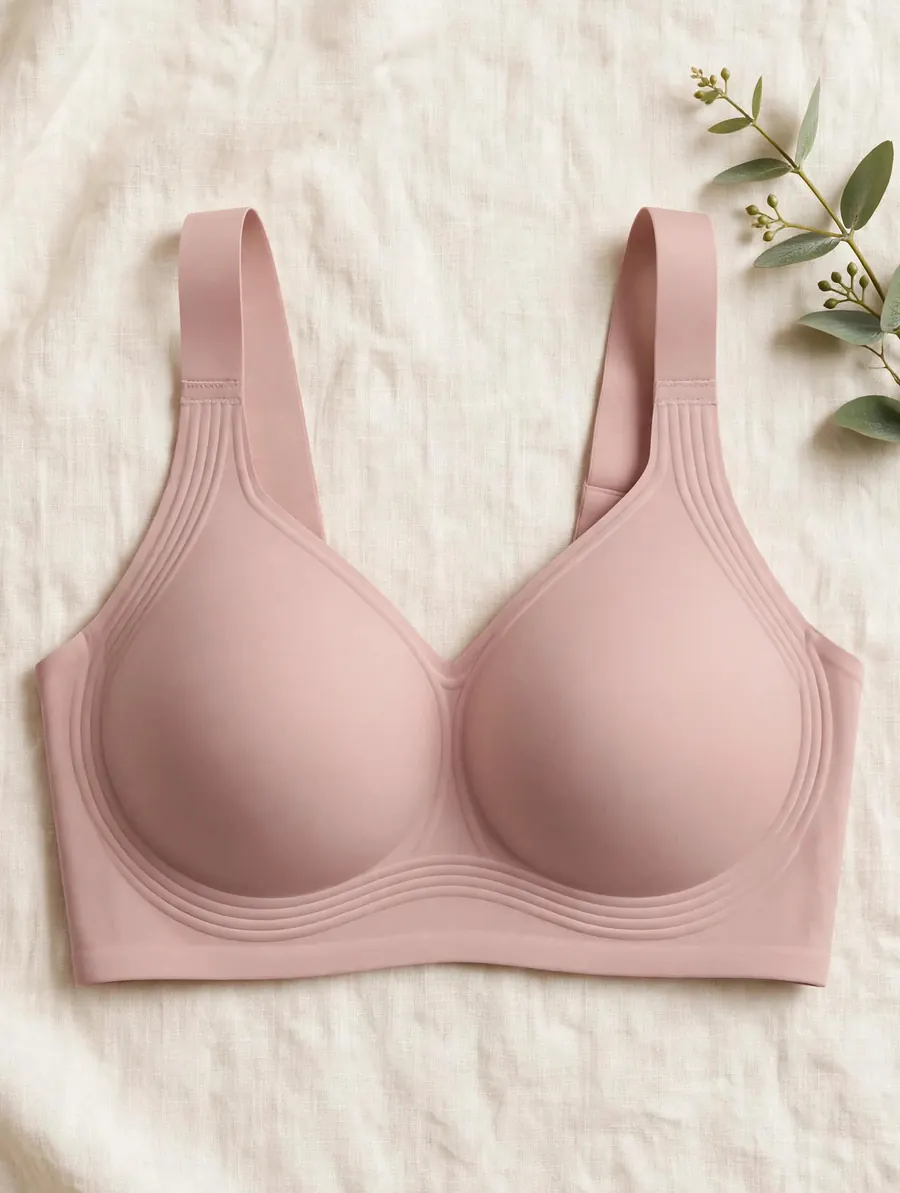
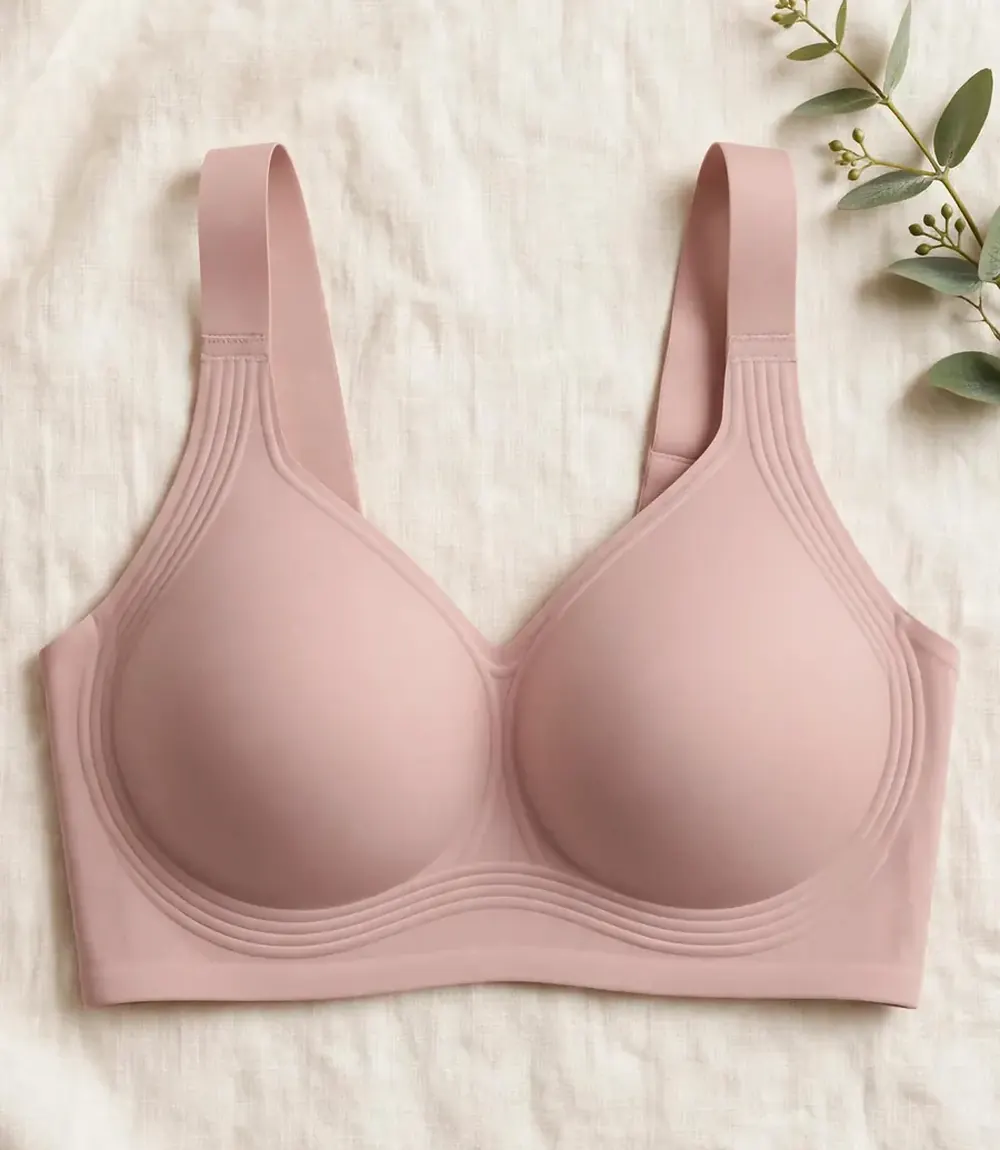
Fix product image fit on new PDPs: full-frame 1/1.15 images, modal fill, correct Save %
- Standardize 7 product images (5 from PR #63 + Tagoo/PISIQI from PR #59) to
  exactly 1000x1150 (the PDP hero / card aspect ratio 1/1.15), WebP q78 <150KB,
  recomposed so the full product is inside the frame (no cover-crop cut-off).
- Tagoo leggings: regenerate hero — the old 736x2912 strip showed only the
  sweater under object-fit:cover. New full-length shot: blonde model, cream
  cable-knit sweater, glossy black faux leather leggings filling the lower
  half, window + beige curtains + potted olive plant. Pin regenerated too.
  Image path switched .jpg -> .webp (data.js + PDP refs updated).
- Bali bra: was 900x1800 (1:2) — cropped on PDP, narrow strip in quick-view.
  Re-cropped on the product bounding box to 1000x1150; full bra now visible.
- Quick-view modal CSS: aspect-ratio 4/5 -> 1/1.15 and zoomable img
  object-fit contain -> cover, so modal images fill the frame with no bars.
- Add missing 600x690 card thumbnails for the 7 products.
- Correct Save badges (were all hard-coded 24%): Bali 56% (21.99 vs 50.00),
  the other six 26% per data.js price/originalPrice.

diff --git a/products/tagoo-faux-leather-leggings-for-women.html b/products/tagoo-faux-leather-leggings-for-women.html
@@ -34,7 +34,7 @@ y=l.getElementsByTagName(r)[0];y.parentNode.insertBefore(t,y);
   <meta property="og:title" content="Tagoo Faux Leather Leggings for Women, Black High | LOOKIQ">
   <meta property="og:description" content="Curated Amazon fashion staple: Tagoo Faux Leather Leggings for Women, Black High Waist Fleece Lined Pants. Evaluated by LOOKIQ style editors for premium fabric quality, flattering silhouette, and effortless capsule wardrobe versatility. Currently verified on Amazon US for $39.99.">
   <meta property="og:image" content="https://lookiq.github.io/assets/pins/tagoo-faux-leather-leggings-for-women-pin.jpg">
-  <meta property="og:image:secure_url" content="https://lookiq.github.io/assets/products/tagoo-faux-leather-leggings-for-women.jpg">
+  <meta property="og:image:secure_url" content="https://lookiq.github.io/assets/products/tagoo-faux-leather-leggings-for-women.webp">
   <meta property="og:image:width" content="1200">
   <meta property="og:image:height" content="630">
   <meta property="og:locale" content="en_US">
@@ -92,7 +92,7 @@ y=l.getElementsByTagName(r)[0];y.parentNode.insertBefore(t,y);
       "@id": "https://lookiq.github.io/products/tagoo-faux-leather-leggings-for-women.html",
       "name": "Tagoo Faux Leather Leggings for Women, Black High Waist Fleece Lined Pants",
       "description": "Tagoo Faux Leather Leggings for Women, Black High Waist Fleece Lined Pants. Curated Amazon fashion staple evaluated for premium fabric quality, flattering silhouette, and effortless styling.",
-      "image": "https://lookiq.github.io/assets/products/tagoo-faux-leather-leggings-for-women.jpg",
+      "image": "https://lookiq.github.io/assets/products/tagoo-faux-leather-leggings-for-women.webp",
       "sku": "B07BKNQRC3",
       "brand": {
         "@type": "Brand",
@@ -822,7 +822,7 @@ height="0" width="0" style="display:none;visibility:hidden"></iframe></noscript>
     <div class="product-main-grid">
       <!-- Left: High Resolution Image Gallery with Hover Zoom -->
       <div class="product-gallery-wrap">
-        <div class="product-hero-image-box" id="product-zoom-box" onclick="openFullscreenLightbox('https://lookiq.github.io/assets/products/tagoo-faux-leather-leggings-for-women.jpg', 'Tagoo Faux Leather Leggings for Women, Black High Waist Fleece Lined Pants')">
+        <div class="product-hero-image-box" id="product-zoom-box" onclick="openFullscreenLightbox('https://lookiq.github.io/assets/products/tagoo-faux-leather-leggings-for-women.webp', 'Tagoo Faux Leather Leggings for Women, Black High Waist Fleece Lined Pants')">
           <span class="product-page-badge">Trending Fashion Staple</span>
           <a href="https://www.pinterest.com/pin/create/button/?url=https%3A//lookiq.github.io/products/tagoo-faux-leather-leggings-for-women.html&media=https%3A//lookiq.github.io/assets/pins/tagoo-faux-leather-leggings-for-women-pin.jpg&description=Tagoo%20Faux%20Leather%20Leggings%20for%20Women%2C%20Black%20High%20Waist%20Fleece%20Lined%20Pants%20-%20Verified%20Amazon%20Find%20on%20LOOKIQ" target="_blank" rel="noopener noreferrer" class="product-hero-pin-badge" onclick="event.stopPropagation();" title="Save to Pinterest">
             <svg viewBox="0 0 24 24"><path d="M12 0C5.373 0 0 5.372 0 12c0 5.084 3.163 9.426 7.627 11.174-.105-.949-.2-2.405.042-3.441.218-.937 1.407-5.965 1.407-5.965s-.359-.719-.359-1.782c0-1.668.967-2.914 2.171-2.914 1.023 0 1.518.769 1.518 1.69 0 1.029-.655 2.568-.994 3.995-.283 1.194.599 2.169 1.777 2.169 2.133 0 3.772-2.249 3.772-5.495 0-2.873-2.064-4.882-5.012-4.882-3.414 0-5.418 2.561-5.418 5.207 0 1.031.397 2.138.893 2.738a.36.36 0 0 1 .083.345l-.333 1.36c-.053.22-.174.267-.402.161-1.499-.698-2.436-2.889-2.436-4.649 0-3.785 2.75-7.262 7.929-7.262 4.163 0 7.398 2.967 7.398 6.931 0 4.136-2.607 7.464-6.227 7.464-1.216 0-2.359-.631-2.75-1.378l-.748 2.853c-.271 1.043-1.002 2.35-1.492 3.146C9.57 23.812 10.763 24 12 24c6.627 0 12-5.373 12-12 0-6.628-5.373-12-12-12z"/></svg>
@@ -837,7 +837,7 @@ height="0" width="0" style="display:none;visibility:hidden"></iframe></noscript>
             </svg>
             <span>Hover to Zoom &bull; Click to Expand</span>
           </div>
-          <img src="../assets/products/tagoo-faux-leather-leggings-for-women.jpg" alt="Tagoo Faux Leather Leggings for Women, Black High Waist Fleece Lined Pants" id="product-zoom-img" decoding="async">
+          <img src="../assets/products/tagoo-faux-leather-leggings-for-women.webp" alt="Tagoo Faux Leather Leggings for Women, Black High Waist Fleece Lined Pants" id="product-zoom-img" decoding="async">
         </div>
       </div>
 
@@ -871,7 +871,7 @@ height="0" width="0" style="display:none;visibility:hidden"></iframe></noscript>
           <div class="price-main">
             <span class="price-value">$39.99</span>
             <span class="price-original-val">$53.99</span>
-            <span class="product-page-discount">Save 24%</span>
+            <span class="product-page-discount">Save 26%</span>
           </div>
           <div class="prime-delivery-notice">
             <svg width="18" height="18" viewBox="0 0 24 24" fill="currentColor">
@@ -1145,7 +1145,7 @@ height="0" width="0" style="display:none;visibility:hidden"></iframe></noscript>
   <div class="mobile-sticky-bar" id="mobile-sticky-bar" aria-label="Quick Amazon Buy Bar">
     <div class="sticky-bar-inner">
       <div class="sticky-bar-info">
-        <img src="../assets/products/tagoo-faux-leather-leggings-for-women.jpg" alt="Tagoo Faux Leather Leggings for Women, Black High Waist Fleece Lined Pants" class="sticky-bar-thumb" loading="lazy">
+        <img src="../assets/products/tagoo-faux-leather-leggings-for-women.webp" alt="Tagoo Faux Leather Leggings for Women, Black High Waist Fleece Lined Pants" class="sticky-bar-thumb" loading="lazy">
         <div class="sticky-bar-text">
           <span class="sticky-bar-title">Tagoo Faux Leather Leggings for Women, Black High</span>
           <span class="sticky-bar-price">$39.99</span>

diff --git a/js/data.js b/js/data.js
@@ -149,7 +149,7 @@ const PRODUCTS = [
     originalPrice: 53.99,
     rating: 4.1,
     reviewsCount: 16605,
-    image: "assets/products/tagoo-faux-leather-leggings-for-women.jpg",
+    image: "assets/products/tagoo-faux-leather-leggings-for-women.webp",
     tags: ["Faux Leather", "Leggings", "Fleece Lined", "Winter Style"],
     shortDesc: "Glossy wet-look faux leather leggings with a thin fleece lining and a wide high-rise waistband. Four-way stretch, tummy control and a butt-lifting fit for an elevated everyday look.",
     features: [

diff --git a/products/bali-womens-comfort-revolution-wireless.html b/products/bali-womens-comfort-revolution-wireless.html
@@ -871,7 +871,7 @@ height="0" width="0" style="display:none;visibility:hidden"></iframe></noscript>
           <div class="price-main">
             <span class="price-value">$21.99</span>
             <span class="price-original-val">$50.00</span>
-            <span class="product-page-discount">Save 24%</span>
+            <span class="product-page-discount">Save 56%</span>
           </div>
           <div class="prime-delivery-notice">
             <svg width="18" height="18" viewBox="0 0 24 24" fill="currentColor">

diff --git a/products/dokotoo-winter-coats-for-women-jackets-f.html b/products/dokotoo-winter-coats-for-women-jackets-f.html
@@ -871,7 +871,7 @@ height="0" width="0" style="display:none;visibility:hidden"></iframe></noscript>
           <div class="price-main">
             <span class="price-value">$54.99</span>
             <span class="price-original-val">$74.24</span>
-            <span class="product-page-discount">Save 24%</span>
+            <span class="product-page-discount">Save 26%</span>
           </div>
           <div class="prime-delivery-notice">
             <svg width="18" height="18" viewBox="0 0 24 24" fill="currentColor">

diff --git a/products/letsjoli-jelly-bras-for-women-no-underwi.html b/products/letsjoli-jelly-bras-for-women-no-underwi.html
@@ -871,7 +871,7 @@ height="0" width="0" style="display:none;visibility:hidden"></iframe></noscript>
           <div class="price-main">
             <span class="price-value">$23.99</span>
             <span class="price-original-val">$32.39</span>
-            <span class="product-page-discount">Save 24%</span>
+            <span class="product-page-discount">Save 26%</span>
           </div>
           <div class="prime-delivery-notice">
             <svg width="18" height="18" viewBox="0 0 24 24" fill="currentColor">

diff --git a/products/lillusory-oversized-cardigan-sweaters-fo.html b/products/lillusory-oversized-cardigan-sweaters-fo.html
@@ -871,7 +871,7 @@ height="0" width="0" style="display:none;visibility:hidden"></iframe></noscript>
           <div class="price-main">
             <span class="price-value">$41.99</span>
             <span class="price-original-val">$56.69</span>
-            <span class="product-page-discount">Save 24%</span>
+            <span class="product-page-discount">Save 26%</span>
           </div>
           <div class="prime-delivery-notice">
             <svg width="18" height="18" viewBox="0 0 24 24" fill="currentColor">

diff --git a/products/pisiqi-thermal-underwear-for-women-long-johns.html b/products/pisiqi-thermal-underwear-for-women-long-johns.html
@@ -871,7 +871,7 @@ height="0" width="0" style="display:none;visibility:hidden"></iframe></noscript>
           <div class="price-main">
             <span class="price-value">$15.72</span>
             <span class="price-original-val">$21.22</span>
-            <span class="product-page-discount">Save 24%</span>
+            <span class="product-page-discount">Save 26%</span>
           </div>
           <div class="prime-delivery-notice">
             <svg width="18" height="18" viewBox="0 0 24 24" fill="currentColor">

diff --git a/products/prettygarden-womens-winter-cropped-faux.html b/products/prettygarden-womens-winter-cropped-faux.html
@@ -871,7 +871,7 @@ height="0" width="0" style="display:none;visibility:hidden"></iframe></noscript>
           <div class="price-main">
             <span class="price-value">$50.99</span>
             <span class="price-original-val">$68.84</span>
-            <span class="product-page-discount">Save 24%</span>
+            <span class="product-page-discount">Save 26%</span>
           </div>
           <div class="prime-delivery-notice">
             <svg width="18" height="18" viewBox="0 0 24 24" fill="currentColor">

diff --git a/css/styles.css b/css/styles.css
@@ -2918,7 +2918,7 @@ input, select {
 }
 
 .quickview-img {
-  aspect-ratio: 4/5;
+  aspect-ratio: 1/1.15;
   background: var(--bg-secondary);
 }
 
@@ -3427,7 +3427,7 @@ input, select {
 .quickview-img.zoomable-img-box img {
   width: 100%;
   height: 100%;
-  object-fit: contain;
+  object-fit: cover;
   transition: transform 0.2s cubic-bezier(0.16, 1, 0.3, 1);
   transform-origin: center center;
   pointer-events: none;
